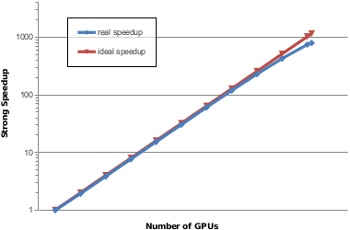
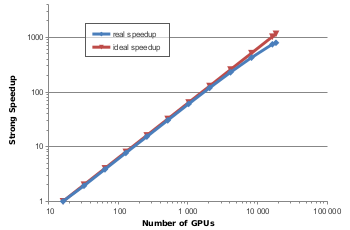
Minor doc updates
- Update Image with strong scaling
- Update Participate section

diff --git a/doc/PARTICIPATE.md b/doc/PARTICIPATE.md
@@ -9,21 +9,30 @@ git for svn users, github workflow, styles/fileHeaders/...)
 Code - Version Control
 ----------------------
 
+If you are familiar with git, feel free to jump to our [github workflow](#github-workflow) section.
+
 ### git
 
 Git is a *distributed* **version control system**. It helps you to keep your software
-development work organized. It also helps to come along in **teams**, crunching on
-the *same project* (arrr! dare you other guys, why did you change my precious
-*main.cpp*!?).
+development work organized, because it keeps track of *changes* in your project.
+It also helps to come along in **teams**, crunching on
+the *same project*. Examples:
+- Arrr, dare you other guys! Why did you change my precious *main.cpp*, too!?
+- Who introduced that awesome block of code? I would like to pay for a beer as a reward.
+- Everything is wrong now, why did this happen and when?
+- What parts of the code changed since I went on vacation
+  (to a conference, phd seminar,
+   [mate](http://en.wikipedia.org/wiki/Club-Mate) fridge, ...)?
 
 If *version control* is totally **new** to you (that's good, because you are not
 [spoiled](http://www.youtube.com/watch?v=4XpnKHJAok8)) - please refer to a
 beginners guide first.
 - [git - the simple guide](http://rogerdudler.github.io/git-guide/)
+- 15 minutes guide at [try.github.io](http://try.github.io)
 
 Since git is *distributed*, no one really needs a server or services like
-github.com to *use git*. Actually, there are even very good reasons why one can
-use git also for **local** data only, e.g. a master thesis (or your collection of ascii art
+github.com to *use git*. Actually, there are even very good reasons why one should
+use git even for **local** data, e.g. a master thesis (or your collection of ascii art
 dwarf hamster pictures).
 
 Btw, **fun fact warning**: [Linus Torvalds](http://en.wikipedia.org/wiki/Linus_Torvalds),
@@ -32,31 +41,29 @@ the **Linux kernel**. So that's cool, by definition.
 
 A nice overview about the *humongous* number of tutorials can be found at
 [stackoverflow.com](http://stackoverflow.com/questions/315911/git-for-beginners-the-definitive-practical-guide)
-... but we may like to start with a git **cheat sheet** (is there anyone who knows more
+... but we may like to start with a git **cheat sheet** (is there anyone out there who knows more
 than 1% of all git commands available?)
-- [git-tower.com](http://www.git-tower.com/files/cheatsheet/Git_Cheat_Sheet_grey.pdf)
-- [github.com - "cheat git" gem](https://help.github.com/articles/git-cheatsheet)
-- 15 minutes guide at [try.github.io](http://try.github.io)
+- [git-tower.com](http://www.git-tower.com/files/cheatsheet/Git_Cheat_Sheet_grey.pdf) (print the 1st page)
+- [github.com - "cheat git" gem](https://help.github.com/articles/git-cheatsheet) (a cheat sheet for the console)
 
 ### git for svn users
 
 If you already used version control systems before, you may enjoy the
 [git for svn users crash course](http://git.or.cz/course/svn.html).
 
+Anyway, please keep in mind to use git *not* like a centralized version control
+system (e.g. *not* like svn). Imagine git as your *own private* svn server
+waiting for your commits. Github is more **one of many** *sources for upates*.
 
-git intro - checkout, pull, branch, commit, merge, push
-
-### github
+### github workflow
 
 https://help.github.com/
 github intro - fork project
 pull requests
 
-maintainers:
+### maintainer notes
   Push / Pull request policies
   http://nvie.com/posts/a-successful-git-branching-model/
-
-add (L)GPL headers: template for new files
 
 Developers with a Mac may like to visit http://mac.github.com/
 
@@ -66,6 +73,8 @@ coding guide lines
 ------------------
 
 Well - there are some! ;) *coming soon*
+
+add (L)GPL headers: template for new files
 
 *******************************************************************************
 
